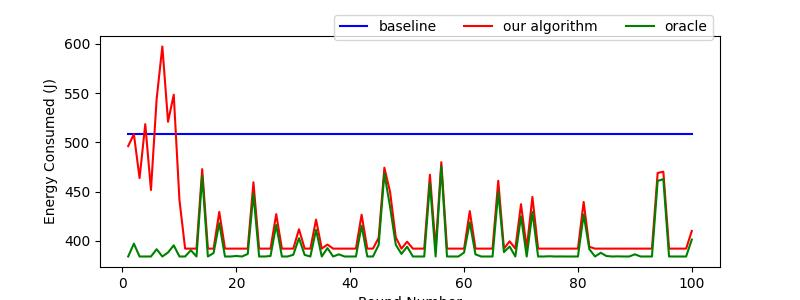
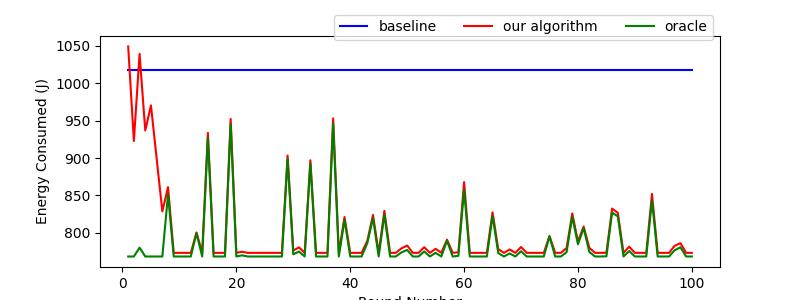
agx parameters set

diff --git a/AGX/simulator.py b/AGX/simulator.py
@@ -19,7 +19,10 @@ from trieste.acquisition.multi_objective.pareto import Pareto, get_reference_poi
 
 
 import powerLog as pl
+import sys
 from powerLog import PowerLogger
+
+SPACE_SIZE = len(dvfs.CPU_FREQ_TABLE) * len(dvfs.GPU_FREQ_TABLE) * len(dvfs.EMC_FREQ_TABLE)
 
 
 class BayesianOpt:
@@ -56,15 +59,15 @@ class Simulation:
 
         if exp_name == 'CIFAR10':
             self.batch_size = 32
-            self.data_size = 320
+            self.data_size = 1280
             self.epoch_size = 5
         elif exp_name == 'ImageNet':
             self.batch_size = 8
-            self.data_size = 240
+            self.data_size = 720
             self.epoch_size = 2
         elif exp_name == 'IMDB':
             self.batch_size = 8
-            self.data_size = 160
+            self.data_size = 320
             self.epoch_size = 4
 
         self.exp_name = exp_name
@@ -72,25 +75,30 @@ class Simulation:
         self.max_conf = tuple([dim[-1] for dim in dvfs.CONFIG_SPACE])
 
         self.rounds = 100
-        self.explore_size = 20
-        self.Bayesian_rounds = 5
-        self.Bayesian_batch_size = 5
+        self.explore_size = math.ceil(SPACE_SIZE * 0.01)
+        self.Bayesian_observation_threshold = math.ceil(SPACE_SIZE * 0.03)
+        self.Bayesian_batch_size = None
+        self.HV_threshold = 0.01
         self.tau = 5
 
-        random.seed(3793)
         self.profile_res = self.generate_normalized_profile_results()
         self.ddls = self.generate_ddls()
 
 
+    def generate_Bayesian_batch_size(self):
+
+        prev_suggestion = math.floor(sum(self.ddls[:self.round_counter]) / self.round_counter / self.tau)
+        self.Bayesian_batch_size = min(prev_suggestion, 10)
+
     def generate_normalized_profile_results(self):
 
         profile_res = load_json(self.exp_name + '.json')
-        res = {tuple([conf[i]/self.max_conf[i] for i in range(3)]): value for conf, value in profile_res.items()}
+        res = {tuple([conf[i]/self.max_conf[i] for i in range(3)]): value for conf, value in profile_res.items() if conf[0] in dvfs.CPU_FREQ_TABLE}
         return OrderedDict(sorted(res.items()))
         
     def generate_ddls(self):
         min_time = self.profile_res[(1.0, 1.0, 1.0)][0] * self.workload
-        return [min_time * random.uniform(1.0, 3.0) for _ in range(self.rounds)]
+        return [min_time * random.uniform(1.0, 2.0) for _ in range(self.rounds)]
 
 
     def RUN_ALGORITHM(self):
@@ -105,9 +113,6 @@ class Simulation:
         print(explore_ids)
         self.init_explore_points = [list(self.profile_res)[i] for i in explore_ids]
 
-        mob = BayesianOpt([list(k) for k in self.profile_res.keys()], self.Bayesian_batch_size)
-        self.run_Bayesian_warmup(mob, explore_ids)
-
         energy_res = []
 
         while len(self.observations) < len(self.init_explore_points):
@@ -118,10 +123,26 @@ class Simulation:
         # mob.build_stacked_independent_objectives_model(self.build_trieste_dataset())
         # suggestions = mob.ask_for_suggestions(self.build_trieste_dataset())
 
-        for _ in range(self.Bayesian_rounds):
+        HV_last = 0
+        ref_point = get_reference_point(self.build_trieste_dataset().observations)
+        self.generate_Bayesian_batch_size()
+        mob = BayesianOpt([list(k) for k in self.profile_res.keys()], self.Bayesian_batch_size)
+        self.run_Bayesian_warmup(mob, explore_ids)
+
+        while True:
+
+            dataset = self.build_trieste_dataset()
+            HV_new = Pareto(dataset.observations).hypervolume_indicator(ref_point)
+            HV_improvement = (HV_new - HV_last) / HV_last
+            print("EHVI improvement is: {}".format(HV_improvement))
+            HV_last = HV_new
+
+            print(len(dataset.observations))
+            if len(dataset.observations) > self.Bayesian_observation_threshold and HV_improvement < 0.01:
+                break
+
             Bayesian_start = time.time()
             logger.start()
-            dataset = self.build_trieste_dataset()
             suggestions = mob.ask_for_suggestions(dataset)
             logger.stop()
             Bayesian_energy = logger.getTotalEnergy() / 1000
@@ -261,7 +282,11 @@ class Simulation:
 
 
 if __name__ == '__main__':
-    s = Simulation('ImageNet')
+
+    seed_dict = {'CIFAR10': 3793, 'ImageNet': 3456, 'IMDB': 4567}
+    exp = sys.argv[1]
+    random.seed(seed_dict[exp])
+    s = Simulation(exp)
     A_res = s.RUN_ALGORITHM()
     B_res = s.RUN_BASELINE()
     O_res = s.RUN_OPTIMAL()
@@ -280,7 +305,7 @@ if __name__ == '__main__':
     plt.legend(bbox_to_anchor=(0., 1.02, 1., .102), ncol=3,)
     plt.xlabel('Round Number')
     plt.ylabel('Energy Consumed (J)')
-    plt.savefig('ImageNet_sim.jpg')
+    plt.savefig('{}_sim.jpg'.format(exp))
 
 
 

diff --git a/AGX/dvfs.py b/AGX/dvfs.py
@@ -1,6 +1,8 @@
 import os, time
 
-CPU_FREQ_TABLE = [  115200, 192000, 268800, 345600, 422400, 499200,
+CPU_FREQ_TABLE = [  
+					# 115200, 192000, 268800, 345600, 
+					422400, 499200,
 					576000, 652800, 729600, 806400, 883200, 960000, 
 					1036800, 1113600, 1190400, 1267200, 1344000, 1420800,
 					1497600, 1574400, 1651200, 1728000, 1804800, 1881600,
